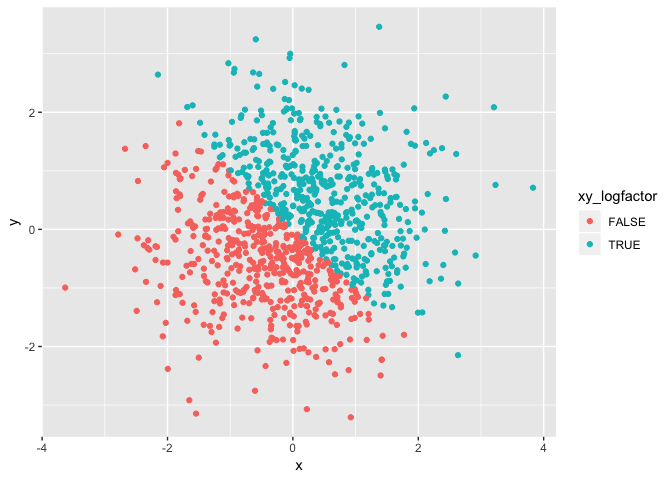
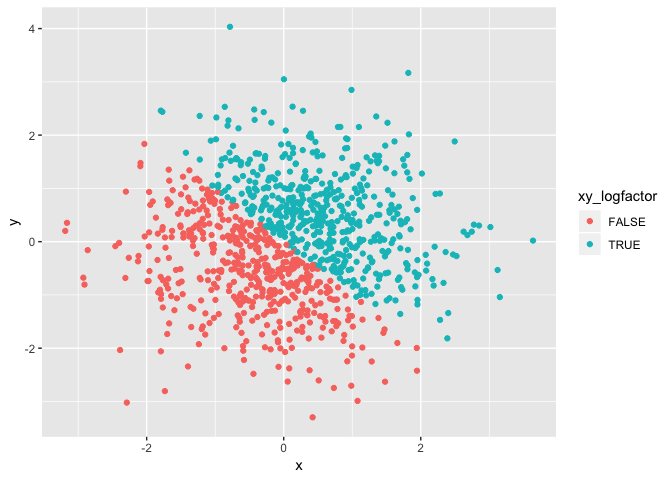
final version

diff --git a/p8105_hw1_rj2543.md b/p8105_hw1_rj2543.md
@@ -31,13 +31,13 @@ Try to take the mean of each variable in the dataframe.
 mean(problem1_df$sample_numeric)
 ```
 
-    ## [1] 1.511714
+    ## [1] 3.28278
 
 ``` r
 mean(problem1_df$sample_logical)
 ```
 
-    ## [1] 0.3
+    ## [1] 0.7
 
 ``` r
 mean(problem1_df$sample_char)
@@ -69,7 +69,7 @@ as.numeric(problem1_df$sample_factor)
 
 In this case, what happens?
 
-    ##  [1] 0 0 0 1 1 0 1 0 0 0
+    ##  [1] 0 1 1 1 1 1 1 0 1 0
 
     ## Warning: NAs introduced by coercion
 
@@ -119,9 +119,9 @@ problem2_df = tibble(
 
 The short description includes:
 
--   the size of the dataset is **5**
--   the mean of x is **0.0223265** and the median of x is **0.0292307**
--   the proportion of cases for which the logical vector is TRUE is **0.512**
+-   the size of the dataset is **1000 \* 5**
+-   the mean of x is **0.0622445** and the median of x is **0.0749096**
+-   the proportion of cases for which the logical vector is TRUE is **0.516**
 
 Second, make a scatterplot of y vs x; color points using the logical variable. Make a second and third scatterplot that color points using the numeric and factor variables, respectively, and comment on the color scales.
 
